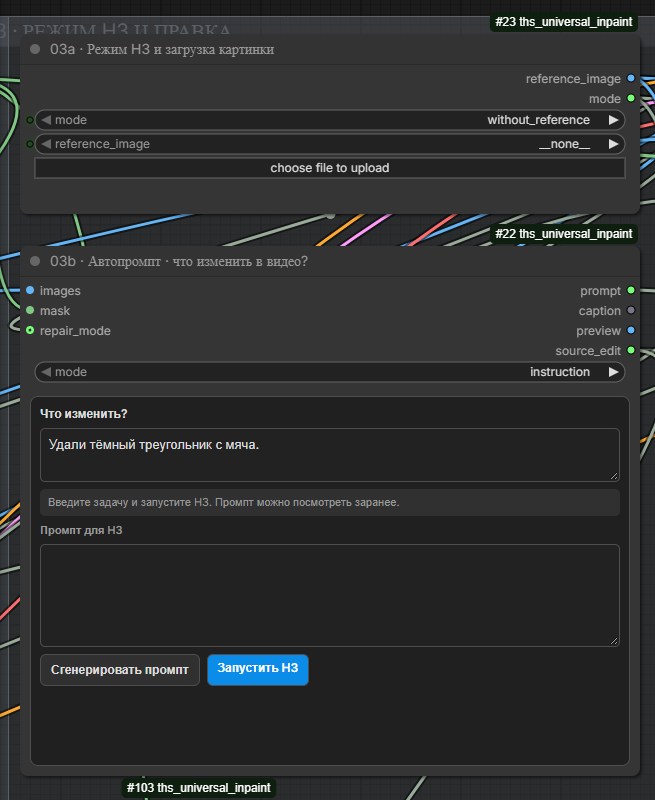
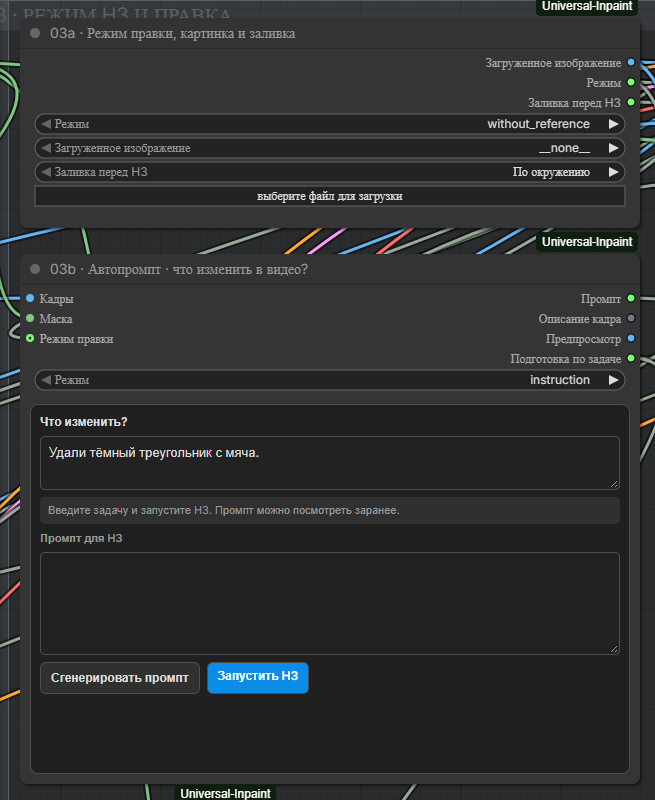
Move V70 fill options into the edit mode node

diff --git a/web/auto_prompt_preview.js b/web/auto_prompt_preview.js
@@ -686,6 +686,16 @@ function createAutoPromptPreview(node, options = {}) {
 if (comfyApp?.registerExtension) {
     comfyApp.registerExtension({
         name: "UniversalInpaint.AutoPromptPreview",
+        beforeConfigureGraph(workflow) {
+            for (const node of workflow?.nodes || []) {
+                const values = node.widgets_values;
+                // Older saves stored the upload button's "image" sentinel in
+                // the slot now occupied by the fill selector.
+                if (node.type === "THSUniversalReferenceImage" && values?.length === 3 && values[2] === "image") {
+                    values.pop();
+                }
+            }
+        },
         async nodeCreated(node) {
             if (node.comfyClass === NODE_CLASS) createAutoPromptPreview(node);
         },

diff --git a/repair_nodes.py b/repair_nodes.py
@@ -42,6 +42,13 @@ CATEGORY = "Universal Inpaint"
 REFERENCE_NONE = "__none__"
 REFERENCE_MODES = ("without_reference", "with_reference", "corrected_frame")
 REFERENCE_IMAGE_SIZES = ("match", "max")
+FILL_STRATEGIES = {
+    "По окружению": "context",
+    "Нейтральный серый": "neutral_gray",
+    "Без заливки": "none",
+}
+FILL_VALUES = list(FILL_STRATEGIES.values())
+DEFAULT_FILL = "По окружению"
 DEFAULT_REFERENCE_PROMPT = (
     "The subject of <Picture 1> occupies the selected location in the source shot. "
     "Reproduce this object's distinctive silhouette, construction, colors and materials. "
@@ -522,8 +529,8 @@ class THSUniversalReferenceImage:
     ``LoadImage`` implementation after validating its bounded input path.
     """
 
-    RETURN_TYPES = ("IMAGE", "COMBO")
-    RETURN_NAMES = ("reference_image", "mode")
+    RETURN_TYPES = ("IMAGE", "COMBO", FILL_VALUES)
+    RETURN_NAMES = ("reference_image", "mode", "fill_strategy")
     FUNCTION = "run"
     CATEGORY = CATEGORY + "/Reference"
 
@@ -546,11 +553,19 @@ class THSUniversalReferenceImage:
                         "tooltip": "Upload/select a single reference image. Leave __none__ while mode is without_reference.",
                     },
                 ),
-            }
+            },
+            "optional": {
+                "fill_strategy": (
+                    list(FILL_STRATEGIES),
+                    {"default": DEFAULT_FILL, "tooltip": "Подготовка маски для удаления и режима фото. «Без заливки» передаёт исходные пиксели и сохраняет фото как референс H3."},
+                ),
+            },
         }
 
     @classmethod
-    def VALIDATE_INPUTS(cls, mode=None, reference_image=None, **kwargs):
+    def VALIDATE_INPUTS(cls, mode=None, reference_image=None, fill_strategy=DEFAULT_FILL, **kwargs):
+        if fill_strategy not in FILL_STRATEGIES:
+            return "Неизвестный способ заполнения перед H3."
         try:
             mode_value = _normalise_reference_mode(mode)
         except ValueError as exc:
@@ -573,7 +588,7 @@ class THSUniversalReferenceImage:
         return True
 
     @classmethod
-    def IS_CHANGED(cls, mode="without_reference", reference_image=REFERENCE_NONE):
+    def IS_CHANGED(cls, mode="without_reference", reference_image=REFERENCE_NONE, fill_strategy=DEFAULT_FILL):
         """Invalidate Comfy's cache when the selected upload changes.
 
         OFF is a stable sentinel and deliberately performs no path lookup.  ON
@@ -607,11 +622,12 @@ class THSUniversalReferenceImage:
         except Exception:
             return f"with_reference:{value}"
 
-    def run(self, mode="without_reference", reference_image=REFERENCE_NONE):
+    def run(self, mode="without_reference", reference_image=REFERENCE_NONE, fill_strategy=DEFAULT_FILL):
         mode_value = _normalise_reference_mode(mode)
+        fill = FILL_STRATEGIES[fill_strategy]
         if mode_value == "without_reference":
             # Do not even import the Comfy image loader on the OFF path.
-            return (None, mode_value)
+            return (None, mode_value, fill)
         validation = self.VALIDATE_INPUTS(mode_value, reference_image)
         if validation is not True:
             raise ValueError(str(validation))
@@ -626,7 +642,7 @@ class THSUniversalReferenceImage:
         values = _node_result(result)
         if not values or values[0] is None:
             raise ValueError("reference image loader returned no image")
-        return (values[0], mode_value)
+        return (values[0], mode_value, fill)
 
 
 class THSUniversalH3ReferenceConditioning:
@@ -901,8 +917,8 @@ class THSUniversalH3PadSource:
                 "source_edit": ("STRING", {"forceInput": True}),
                 "replacement_image": ("IMAGE",),
                 "repair_mode": ("COMBO", {"forceInput": True}),
-                "fill_strategy": (["context", "neutral_gray"], {"default": "context",
-                    "tooltip": "Для удаления и замены с фото: окружение (Telea) или нейтральный серый #808080."}),
+                "fill_strategy": (FILL_VALUES, {"default": "context",
+                    "tooltip": "Подготовка для удаления и режима фото: окружение (Telea), нейтральный серый #808080 или исходные пиксели."}),
             },
         }
 
@@ -923,6 +939,8 @@ class THSUniversalH3PadSource:
         if repair_mode == "with_reference":
             preparation = "reference"
         elif repair_mode == "corrected_frame":
+            preparation = "keep"
+        if fill_strategy == "none" and preparation in ("clear", "reference"):
             preparation = "keep"
         model_source = images
         if preparation == "clear":

diff --git a/tests/test_reference_conditioning.py b/tests/test_reference_conditioning.py
@@ -14,6 +14,7 @@ sys.path.insert(0, str(PACKAGE_ROOT))
 from ths_universal_inpaint.repair_nodes import (  # noqa: E402
     DEFAULT_CORRECTED_FRAME_PROMPT,
     REFERENCE_NONE,
+    THSUniversalH3PadSource,
     THSUniversalH3ReferenceConditioning,
     THSUniversalReferenceImage,
     composite_exact,
@@ -115,7 +116,7 @@ def test_off_calls_original_h3_without_ref_images_or_image_decode(monkeypatch):
             raise AssertionError("OFF path attempted image decode")
 
     monkeypatch.setitem(sys.modules, "nodes", types.SimpleNamespace(LoadImage=RaisingLoadImage))
-    assert THSUniversalReferenceImage().run("without_reference", "missing.png") == (None, "without_reference")
+    assert THSUniversalReferenceImage().run("without_reference", "missing.png") == (None, "without_reference", "context")
 
 
 def test_on_calls_native_reference_with_tensor_vae_and_picture_label(monkeypatch):
@@ -210,7 +211,9 @@ def test_on_loader_reuses_bounded_native_load_image(monkeypatch):
 
     monkeypatch.setitem(sys.modules, "folder_paths", folder_paths)
     monkeypatch.setitem(sys.modules, "nodes", types.SimpleNamespace(LoadImage=FakeLoadImage))
-    assert THSUniversalReferenceImage().run("with_reference", "upload/ref.png")[0] is image
+    selected = THSUniversalReferenceImage().run("with_reference", "upload/ref.png", "Без заливки")
+    assert selected[0] is image
+    assert selected[1:] == ("with_reference", "none")
     assert paths == ["upload/ref.png"]
 
 
@@ -238,6 +241,12 @@ def test_reference_loader_cache_key_is_stable_off_and_delegates_on(monkeypatch):
     monkeypatch.setitem(sys.modules, "nodes", types.SimpleNamespace(LoadImage=FakeLoadImage))
     assert THSUniversalReferenceImage.IS_CHANGED("with_reference", "input/ref.png") == "file-hash"
     assert seen == ["input/ref.png"]
+
+
+def test_reference_fill_output_matches_pad_combo_and_keeps_legacy_default():
+    fill_input = THSUniversalH3PadSource.INPUT_TYPES()["optional"]["fill_strategy"]
+    assert THSUniversalReferenceImage.RETURN_TYPES[2] == fill_input[0]
+    assert fill_input[1]["default"] == "context"
 
 
 def test_reference_graph_keeps_exact_outside_mask_composite_contract():

diff --git a/tests/test_repair_nodes.py b/tests/test_repair_nodes.py
@@ -176,12 +176,18 @@ def test_pad_without_audio_creates_silent_audio_contract():
     assert float(audio["waveform"].sum()) == 0.0
 
 
-@pytest.mark.parametrize("settings", [{"prefill": False}, {"prefill": True, "source_edit": "keep"}])
+@pytest.mark.parametrize("settings", [
+    {"prefill": False},
+    {"prefill": True, "source_edit": "keep"},
+    {"source_edit": "clear", "fill_strategy": "none"},
+    {"repair_mode": "with_reference", "fill_strategy": "none"},
+])
 def test_pad_node_can_keep_original_pixels_as_the_h3_source(monkeypatch, settings):
     def forbidden(*args):
         pytest.fail("replacement mode should keep the original pixel values")
 
     monkeypatch.setattr("ths_universal_inpaint.repair_nodes.telea_prefill_masked", forbidden)
+    monkeypatch.setattr("ths_universal_inpaint.repair_nodes.place_reference", forbidden)
     images = np.random.default_rng(42).random((6, 35, 33, 3), dtype=np.float32)
     mask = np.ones(images.shape[:3], dtype=np.float32)
     padded, padded_mask, _, original_count, padded_count = THSUniversalH3PadSource().run(images, mask, **settings)

diff --git a/tests/test_workflow_structure.py b/tests/test_workflow_structure.py
@@ -227,12 +227,13 @@ def test_workbench_runs_three_h3_modes_through_one_mask_and_one_sampler():
         return links[link_id][1:3]
 
     assert nodes[23]["type"] == "THSUniversalReferenceImage"
-    assert nodes[23]["widgets_values"] == ["without_reference", "__none__"]
+    assert nodes[23]["widgets_values"] == ["without_reference", "__none__", "По окружению"]
     assert nodes[22]["widgets_values"][0] == "instruction"
     assert origin(30, "source_edit") == [22, 3]
     assert origin(92, "source_edit") == [22, 3]
     assert origin(30, "replacement_image") == [23, 0]
     assert origin(30, "repair_mode") == [23, 1]
+    assert origin(30, "fill_strategy") == [23, 2]
     assert nodes[22]["outputs"][3]["type"] == "STRING"
     assert origin(22, "repair_mode") == origin(61, "mode") == origin(24, "mode") == [23, 1]
     assert origin(61, "reference_image") == origin(24, "corrected_image") == [23, 0]

diff --git a/docs/NODES_RU.md b/docs/NODES_RU.md
@@ -1,6 +1,6 @@
 # Ноды Universal Inpaint в ComfyUI
 
-После установки откройте библиотеку нод и найдите категорию **Universal Inpaint**. В русской локали новые ноды отображаются под названиями из этого справочника. В сохранённом графе ComfyUI показывает заголовки автора схемы, например **03a · Режим H3 и загрузка картинки**. Под каждым заголовком ниже указан постоянный идентификатор ноды для сверки с JSON или сообщением об ошибке.
+После установки откройте библиотеку нод и найдите категорию **Universal Inpaint**. В русской локали новые ноды отображаются под названиями из этого справочника. В сохранённом графе ComfyUI показывает заголовки автора схемы, например **03a · Режим правки, картинка и заливка**. Под каждым заголовком ниже указан постоянный идентификатор ноды для сверки с JSON или сообщением об ошибке.
 
 **Для первого видео** откройте готовый V70 и выберите исходник. В редакторе маски отметьте область правки, в 03a выберите способ замены и проверьте короткую пробу кнопкой **«Проба на фрагменте»**. Большинство служебных нод уже соединены. [Скачать схему V70](../workflows/V70_Universal_Repair_Workbench.json) · [Пройти пример со скриншотами](USER_GUIDE_RU.md)
 
@@ -73,7 +73,7 @@
 
 В V70 решает задача из 03b. Для простой команды «Удали надпись» нода заполняет выделение по выбранному способу. Для однозначно указанного цвета, например «Сделай надпись красной», нода вклейки перекрашивает пиксели прямо по маске. Семплер пропускается, поэтому исходные тени и рисунок сохраняются. При сложной текстовой замене модель получает исходные кадры. При замене по фотографии схема освобождает место для нового предмета и передаёт H3 изображение из 03a. Если собираете схему вручную, соедините выход **source_edit** из 03b с одноимёнными входами подготовки кадров и вклейки. Из 03a подайте **reference_image** и **mode** на **replacement_image** и **repair_mode** подготовки кадров. Без этого соединения подготовкой управляет переключатель **prefill**.
 
-В группе генерации разверните ноду №30. Список **«Заполнение перед H3»** (`fill_strategy`) находится под `prefill`. Он задаёт основу для удаления и размещения предмета с фото. При **context** используются соседние пиксели, при **neutral_gray** выделение заполняется цветом **#808080**. [Скриншот, примеры и проба без заливки](USER_GUIDE_RU.md#заливка-перед-h3)
+В готовом V70 заливка выбирается в **03a**, и её выход **fill_strategy** подключён к одноимённому входу подготовки кадров. В самостоятельных и сохранённых старых графах эту настройку можно выбирать прямо в «Паддинг H3». [Скриншот и описание трёх вариантов](USER_GUIDE_RU.md#заливка-перед-h3)
 
 ### Подготовка звука для H3
 `THSUniversalH3PadAudio` · в V70 **Технический · H3 audio pad**

diff --git a/README.md b/README.md
@@ -6,7 +6,7 @@ Universal Inpaint изменяет выбранный участок видео 
 
 [Открыть воркфлоу V70](workflows/V70_Universal_Repair_Workbench.json) · [Пройти пример от загрузки до экспорта](docs/USER_GUIDE_RU.md)
 
-[По тексту](docs/USER_GUIDE_RU.md#по-тексту--without_reference) · [По фотографии](docs/USER_GUIDE_RU.md#по-фотографии--with_reference) · [По исправленному кадру](docs/USER_GUIDE_RU.md#по-исправленному-кадру--corrected_frame) · [Серая заливка и окружение](docs/USER_GUIDE_RU.md#заливка-перед-h3)
+[По тексту](docs/USER_GUIDE_RU.md#по-тексту--without_reference) · [По фотографии](docs/USER_GUIDE_RU.md#по-фотографии--with_reference) · [По исправленному кадру](docs/USER_GUIDE_RU.md#по-исправленному-кадру--corrected_frame) · [Три варианта заливки](docs/USER_GUIDE_RU.md#заливка-перед-h3)
 
 ![Редактор V70 с маской, рамкой H3 и кнопкой пробного запуска](docs/images/v70/flow-crop.png)
 
@@ -17,7 +17,7 @@ Universal Inpaint изменяет выбранный участок видео 
 | Где | Что сделать |
 | --- | --- |
 | **03 · Редактор маски** | Выделите предмет по клику в SAM3 или нарисуйте область для Optical Flow. Проверьте, что выделение держится на нужных кадрах. |
-| **03a · Режим H3** | Выберите замену по тексту, фотографию-референс или исправленный кадр. |
+| **03a · Режим правки, картинка и заливка** | Выберите текст, фото или исправленный кадр. Здесь же выбираются окружение, нейтральный серый и «Без заливки». |
 | **03b · Автопромпт** | Для замены по тексту напишите задачу по-русски, например «Удали знак с мяча». |
 | **03c · Исправленный кадр** | Если загрузили отредактированный кадр, укажите его номер в исходном видео. Первый кадр имеет номер 1. |
 | **Сравнение** | Нажмите «Проба на фрагменте» в редакторе маски. После расчёта передвиньте разделитель по изображению в ноде сравнения. Если правка подходит, нажмите «Запустить H3». |

diff --git a/docs/LIVE_VALIDATION.md b/docs/LIVE_VALIDATION.md
@@ -1,5 +1,29 @@
 # Live ComfyUI verification
 
+## V70 fill selector — 2026-11-21 (Europe/Moscow)
+
+The ComfyUI browser serialized all nine combinations of the three edit modes
+and the three fill options. Old graphs loaded with their original pad-node
+setting, including saves that serialized the upload button as a widget value.
+The live preparation checks confirmed that no fill leaves source pixels intact
+and that the photo remains connected to native H3 conditioning.
+
+On a 119-frame, 1080×1920 source clip, static, keyframe, Optical Flow and
+GrabCut mask jobs completed. Native SAM3 produced a box preview, an updated
+point preview with positive and negative points, and tracked the clip across
+all 119 frames. Direct recolor exported 119 frames at 30 fps with audio.
+
+H3 ran 12-frame trials for text removal and reference replacement with each
+fill option, a detail edit, a text replacement, and a corrected frame.
+Context fill removed the original tie. The photo replacement yielded a flower
+on the shirt both with context fill and with no fill at denoise 0.85. Gray fill
+left a visible tie silhouette in these trials. A red tie on corrected frame 3
+carried through all 12 trial frames at denoise 1.0. At 0.65 the color faded away
+after the anchor. A text edit produced silver stripes. The bow-tie replacement
+retained the original shape with the short instruction. A mask widened at the
+collar and a descriptive prompt at denoise 1.0 produced a shorter bow shape,
+with the wrong orientation. For an exact silhouette, use an image guide.
+
 ## V70 model window and short H3 trials
 
 The editor's trial and full-run buttons were exercised in a local ComfyUI browser on a 56-frame, 544×576, 24 fps clip. The marked interval was frames 17–40. An automatic 256×256 window covered the mask. The trial showed frames 21–32 in the comparison node, and the frame numbers matched their positions in the original timeline. The instruction route then saved a 56-frame H.264 file at the source dimensions and frame rate. All 32 outside-interval frame pairs matched in the comparison cache. Separate reference-image and corrected-frame trials also completed for the same interval, with the corrected guide on original frame 27. Unit tests cover the cropped audio sample offset; this particular source clip had no audio track.

diff --git a/CHANGELOG.md b/CHANGELOG.md
@@ -3,7 +3,7 @@
 ## Unreleased — V70 repair workbench
 
 - Route text, photo reference and corrected-frame edits through one V70 graph.
-- Offer context and neutral-gray preparation for supported edits. Preserve source shading for direct recolor commands.
+- Choose context, neutral gray or no fill next to the edit mode and image upload. No fill retains the original pixels and keeps native photo conditioning connected. Preserve source shading for direct recolor commands.
 - Document all three modes and the fill selector in the illustrated Russian guide.
 
 ### SAM3 point selection
